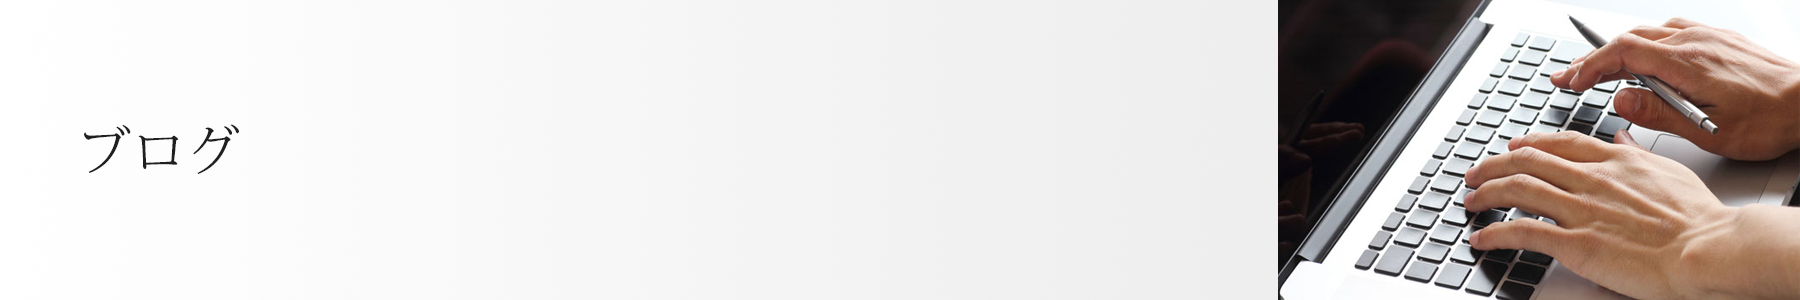
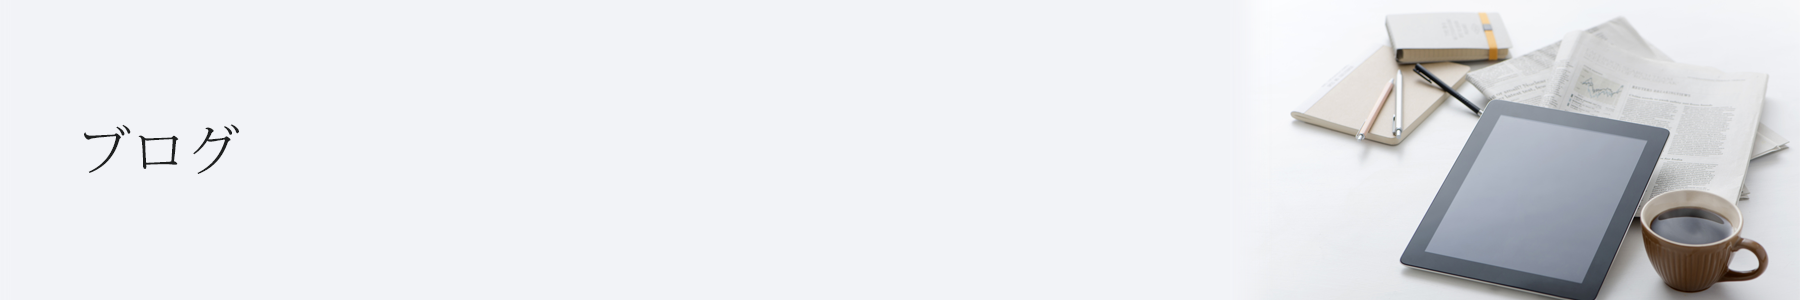
last commit

Changed region(s): [[0.6844, 0.0, 1.0, 1.0], [0.6844, 0.99, 0.7156, 1.0]]

diff --git a/css/style.css b/css/style.css
@@ -243,11 +243,20 @@ blockquote:before {content:'“'; position:absolute; left:15px; top:13px; font-s
 
 .breadcrumbs_block3 {
     padding: 81px 0;
-    background-image: url(../images/clean_code_bg5.jpg);
+    background-image: url(../images/clean_code_bg6.jpg);
     background-repeat: no-repeat;
     background-size: cover;
     background-position: right !important;
 }
+
+.breadcrumbs_block4 {
+    padding: 81px 0;
+    background-image: url(../images/clean_code_bg7.png);
+    background-repeat: no-repeat;
+    background-size: cover;
+    background-position: right !important;
+}
+
 .breadcrumbs_block h2 {
 	margin-bottom:15px;
 	line-height:80px;
@@ -2141,6 +2150,14 @@ li.faqlist-question {
 }
 
 @media (max-width: 767px) {
+
+	.top_slider {
+		background: url('../images/sm-bg2.jpg');
+		background-size: cover;
+		background-position: center bottom;
+		background-repeat: no-repeat;
+	}
+	
 	.container {padding-left:15px; padding-right:15px;}
 	
 	
@@ -2293,6 +2310,26 @@ li.faqlist-question {
 }
 
 @media (max-width: 479px) {
+	h1.sm-title{
+		font-size: 24px;
+		color: #2d3332;
+		/* margin: 20px 0 0 30px; */
+		position: relative;
+		top:20px;
+		left: 30px;
+	}
+	
+	h1.sm-title span {
+		font-size: 32px;
+	}
+
+	.top_slider {
+		background: url('../images/sm-bg2.jpg');
+		background-size: auto;
+		background-position: center bottom;
+		background-repeat: no-repeat;
+		zoom: 90%;
+	}
 
 	#search-form {display:none;}
 	
@@ -2370,6 +2407,10 @@ li.faqlist-question {
 	.ih-item.circle {
     margin: 0 auto;
 	}
+	
+	.contact_info {
+   		 width: 95%;
+   	}
 }
 
 @media (max-width: 380px) {
@@ -2386,33 +2427,10 @@ li.faqlist-question {
 
 }
 
-
-
-
-
-
-
-
-
-
-
-
-
-
-
-
-
-
-
-
-
-
-
-
-
-
-
-
+@media (min-width: 769px) {
+	h1.sm-title{
+	display: none;
+}
 
 
 

diff --git a/single-bukken.php b/single-bukken.php
@@ -61,21 +61,21 @@
 											</tr>
 											<tr>
 											  <td class="active">敷金</td>
-											  <td>0円</td>
+											  <td><?php echo get_post_meta($post->ID,'caution', true) ?></td>
 											  <td class="active">取引形態</td>
-											  <td>売主/貸主</td>
+											  <td><?php echo get_post_meta($post->ID,'transaction', true) ?></td>
 											</tr>
 											<tr>
 											  <td class="active">礼金</td>
-											  <td>0円</td>
+											  <td><?php echo get_post_meta($post->ID,'reward', true) ?></td>
 											  <td class="active">築年数</td>
 											  <td><?php echo get_post_meta($post->ID,'age', true) ?></td>
 											</tr>
 											<tr>
-											  <td class="active">補償金<br>事務手数料</td>
-											  <td>0円</td>
-											  <td class="active">更新料または<br>再契約量</td>
-											  <td>-</td>
+											  <td class="active">保証金<br>事務手数料</td>
+											  <td><?php echo get_post_meta($post->ID,'guarantee', true) ?></td>
+											  <td class="active">更新料または<br>再契約料</td>
+											  <td><?php echo get_post_meta($post->ID,'update', true) ?></td>
 											</tr>
 											</tbody>
                                         </table>
@@ -93,30 +93,30 @@
                                         	</tbody>
                                         </table>
 <!--                                         <p><?php echo apply_filters('the_content', get_post_meta($post->ID, 'status', true)); ?></p> -->
+
+										
 										<?php if(get_field('bukken_repeat')): ?>
 										 <table class="table table-responsive t_repeat">
 										 <?php while(has_sub_field('bukken_repeat')): 
 											 $image = get_sub_field('room_img');
 										 ?>
+										 
 	                                        	<tbody>
 		                                        	<tr class="active">
 													  <td class="active">部屋番号</td>
-													  <td class="active">イメージ</td>
-													  <td class="active">間取り</td>
-													  <td class="active">価格</td>
-													  <td class="active">専有面積</td>
+													  <td class="active">間取り<br>専有面積</td>
+													  <td class="active">賃料<br>管理費</td>
 													  <td class="active">入居時期</td>
 		                                        	</tr>
 													<tr>
-													  <td><?php the_sub_field('room_num'); ?></td>
+													  <td><?php the_sub_field('room_num'); ?><br><a href="<?php echo $image['url']; ?>"><img src="<?php echo $image['url']; ?>" alt="<?php echo $image['alt'] ?>" width= "300px" /></a></td>
 													  
-													  <td><img src="<?php echo $image['url']; ?>" alt="<?php echo $image['alt'] ?>" /></td>
+<!-- 													  <td><img src="<?php echo $image['url']; ?>" alt="<?php echo $image['alt'] ?>" /></td> -->
 													  
-													  <td><?php the_sub_field('room_type'); ?></td>
+													  <td><?php the_sub_field('room_type'); ?><br><?php the_sub_field('room_width'); ?>㎡</td>
 													  
-													  <td><?php the_sub_field('room_price'); ?></td>
-													  
-													  <td><?php the_sub_field('room_width'); ?></td>
+													  <td><?php the_sub_field('room_price'); ?>万円<br><?php the_sub_field('management'); ?>円</td>
+
 													  
 													  <td><?php the_sub_field('room_state'); ?></td>
 													</tr>

diff --git a/index.php b/index.php
@@ -3,6 +3,8 @@
     <section id="home" class="padbot0">
       <!-- TOP SLIDER -->
       <div class="top_slider">
+      	<h1 class="sm-title">明日をもっと素敵に。<br>
+		  		<span>Liv・in</span></h1>
         <!-- VIDEO BACKGROUND -->
               <a name="P2" class="player" id="P2" data-property="{videoURL:'T_R8s-AFyIs',containment:'.top_slider',autoPlay:true, mute:true, startAt:0, opacity:1}"></a>
               <!-- //VIDEO BACKGROUND -->
@@ -18,9 +20,9 @@
 
         <hr class="style-eight">
           <!-- ROW -->
-          <h2>リヴイン　4つの特徴</h2>
+          <h2>リヴイン　3つの特徴</h2>
           <div class="row">
-            <div class="col-lg-3 col-md-3 col-sm-6 col-xs-6 col-ss-12 margbot30">
+            <div class="col-lg-4 col-md-4 col-sm-4 col-xs-4 col-ss-12 margbot30">
             <div class="about_4">
               <a class="services_item" href="javascript:void(0);" >
                 <p>敷金・礼金0円</p>
@@ -29,7 +31,8 @@
               </a>
             </div>
             </div>
-            <div class="col-lg-3 col-md-3 col-sm-6 col-xs-6 col-ss-12 margbot30">
+            <!--
+<div class="col-lg-3 col-md-3 col-sm-6 col-xs-6 col-ss-12 margbot30">
             <div class="about_4">
               <a class="services_item" href="javascript:void(0);" >
                 <p>仲介手数料0円</p>
@@ -38,16 +41,17 @@
               </a>
             </div>
             </div>
-            <div class="col-lg-3 col-md-3 col-sm-6 col-xs-6 col-ss-12 margbot30">
+-->
+            <div class="col-lg-4 col-md-4 col-sm-4 col-xs-4 col-ss-12 margbot30">
             <div class="about_4">
               <a class="services_item" href="javascript:void(0);" >
                 <p>分譲マンション</p>
                 <img src="<?php bloginfo('template_url' ); ?>/img/about3.jpg" alt="">
-                <span>自社ブランドの分譲マンションを都内に約3000戸数保有しております。<br>&nbsp;</span>
+                <span>自社ブランドの分譲マンションを都内に約3000戸数保有しております。</span>
               </a>
             </div>
             </div>
-            <div class="col-lg-3 col-md-3 col-sm-6 col-xs-6 col-ss-12 margbot30">
+            <div class="col-lg-4 col-md-4 col-sm-4 col-xs-4 col-ss-12 margbot30">
             <div class="about_4">
               <a class="services_item" href="javascript:void(0);" >
                 <p>ペット可</p>
@@ -239,7 +243,7 @@
           <div class="col-md-8 col-md-offset-2">
             <h3>Information / お知らせ</h3>
               <ul><?php query_posts('showposts=5'); ?><?php if ( have_posts() ) : while ( have_posts() ) : the_post(); ?>
-                <li><a href="<?php the_permalink(); ?>"><?php the_date(); ?>　<?php the_title(); ?></a></li>
+                <li><a href="<?php the_permalink(); ?>"><?php the_time('Y年m月d日'); ?>　<?php the_title(); ?></a></li>
                 <hr class="style-blog">
                 <?php endwhile; endif; ?>
               </ul>

diff --git a/functions.php b/functions.php
@@ -14,3 +14,29 @@ function new_excerpt_more( $more ) {
   return ' <a class="read-more" href="'. get_permalink( get_the_ID() ) . '">続きを読む</a>';
 }
 add_filter( 'excerpt_more', 'new_excerpt_more' );
+
+
+function wp_plupload_include_attachment_id( $params ) { 
+	global $post_ID; 
+	if ( isset( $post_ID ) ) 
+        $params['post_id'] = (int) $post_ID; 
+    return $params; 
+} 
+add_filter( 'plupload_default_params', 'wp_plupload_include_attachment_id' ); 
+
+function wp_post_id_upload_dir( $args ) {
+    $post_id = $_REQUEST['post_id'];
+    if(!empty($post_id)){
+       $newdir = '/' . $post_id;
+	}else{
+       $newdir = '/unknown_id';
+	}
+       $args['path']    = str_replace( $args['subdir'], '', $args['path'] );
+       $args['url']     = str_replace( $args['subdir'], '', $args['url'] );      
+       $args['subdir']  = $newdir;
+       $args['path']   .= $newdir; 
+       $args['url']    .= $newdir; 
+
+       return $args;
+}
+add_filter( 'upload_dir', 'wp_post_id_upload_dir' );

diff --git a/header.php b/header.php
@@ -26,6 +26,18 @@
   <link href='http://fonts.googleapis.com/css?family=EB+Garamond' rel='stylesheet' type='text/css'>
 	<link href='http://fonts.googleapis.com/css?family=Amiri' rel='stylesheet' type='text/css'>
 	<link rel="stylesheet" href="https://maxcdn.bootstrapcdn.com/font-awesome/4.4.0/css/font-awesome.min.css">
+	
+	<!--Googleアナリティクスタグ 全ページ /body-->
+		<script>
+		  (function(i,s,o,g,r,a,m){i['GoogleAnalyticsObject']=r;i[r]=i[r]||function(){
+		  (i[r].q=i[r].q||[]).push(arguments)},i[r].l=1*new Date();a=s.createElement(o),
+		  m=s.getElementsByTagName(o)[0];a.async=1;a.src=g;m.parentNode.insertBefore(a,m)
+		  })(window,document,'script','//www.google-analytics.com/analytics.js','ga');
+		
+		  ga('create', 'UA-69990394-1', 'auto');
+		  ga('send', 'pageview');
+		
+		</script>
 
 
 	<?php wp_head(); ?>

diff --git a/footer.php b/footer.php
@@ -86,5 +86,21 @@
     });
   </script>
  <?php wp_footer(); ?> 
+ 
+ <!--Facebookタグ 全ページ /head-->
+		<script>
+		!function(f,b,e,v,n,t,s){if(f.fbq)return;n=f.fbq=function(){n.callMethod?
+		n.callMethod.apply(n,arguments):n.queue.push(arguments)};if(!f._fbq)f._fbq=n;
+		n.push=n;n.loaded=!0;n.version='2.0';n.queue=[];t=b.createElement(e);t.async=!0;
+		t.src=v;s=b.getElementsByTagName(e)[0];s.parentNode.insertBefore(t,s)}(window,
+		document,'script','//connect.facebook.net/en_US/fbevents.js');
+		
+		fbq('init', '914342981977396');
+		fbq('track', "PageView");</script>
+		<noscript><img height="1" width="1" style="display:none"
+		src="https://www.facebook.com/tr?id=914342981977396&ev=PageView&noscript=1"
+		/></noscript>
+<!--Facebookタグ 全ページ /head-->
+
 </body>
 </html>

diff --git a/footer-2.php b/footer-2.php
@@ -89,5 +89,21 @@
 		});
 	</script>
 <?php wp_footer(); ?>	
+
+ <!--Facebookタグ 全ページ /head-->
+		<script>
+		!function(f,b,e,v,n,t,s){if(f.fbq)return;n=f.fbq=function(){n.callMethod?
+		n.callMethod.apply(n,arguments):n.queue.push(arguments)};if(!f._fbq)f._fbq=n;
+		n.push=n;n.loaded=!0;n.version='2.0';n.queue=[];t=b.createElement(e);t.async=!0;
+		t.src=v;s=b.getElementsByTagName(e)[0];s.parentNode.insertBefore(t,s)}(window,
+		document,'script','//connect.facebook.net/en_US/fbevents.js');
+		
+		fbq('init', '914342981977396');
+		fbq('track', "PageView");</script>
+		<noscript><img height="1" width="1" style="display:none"
+		src="https://www.facebook.com/tr?id=914342981977396&ev=PageView&noscript=1"
+		/></noscript>
+<!--Facebookタグ 全ページ /head-->
+
 </body>
 </html>

diff --git a/searchform.php b/searchform.php
@@ -11,8 +11,10 @@
             <h3>検索条件が指定されていません。</h3>
                 <?php endif; ?>
                 <?php } else { ?>
-            現在の登録件数：<?php $count_posts = wp_count_posts();
-                                echo esc_html( $count_posts->publish );?>件
+            現在の登録件数：<?php 
+											$news_post_count = wp_count_posts('bukken')->publish; 
+										        echo $news_post_count;
+										?>件
             <?php } ?>
         </div>
     </div>

diff --git a/page.php b/page.php
@@ -2,7 +2,7 @@
 		<!-- BREADCRUMBS -->
 		<section class=" clearfix parallax">
 	      <?php if(is_page('equipment')): ?>
-	          <img src="<?php bloginfo('template_url'); ?>/images/bg2.png" alt="設備・使用">
+	          <img src="<?php bloginfo('template_url'); ?>/images/bg2.png" alt="設備・仕様">
 	        <?php elseif(is_page('searchform')): ?>
 	          <img src="<?php bloginfo('template_url'); ?>/images/bg1.png" alt="検索ページ">
 	        <?php elseif(is_page('customer')): ?>

diff --git a/single.php b/single.php
@@ -1,8 +1,8 @@
 <?php get_header(); ?>
 		<!-- BREADCRUMBS -->
-		<section class="breadcrumbs_block clearfix parallax">
+		<section class="breadcrumbs_block4 clearfix parallax">
 			<div class="container center">
-				<h2><?php the_title(); ?></h2>
+<!-- 				<h2><?php the_title(); ?></h2> -->
 			</div>
 		</section><!-- //BREADCRUMBS -->
 

diff --git a/search.php b/search.php
@@ -77,7 +77,7 @@
             </div><!-- //SINGLE BLOG POST -->
 
 
-                <a href="#" >
+                <a href="<?php echo home_url(); ?>/contact" >
                   <div class="btn_contact">
                       <p>お問い合わせ</p>
                   </div>
